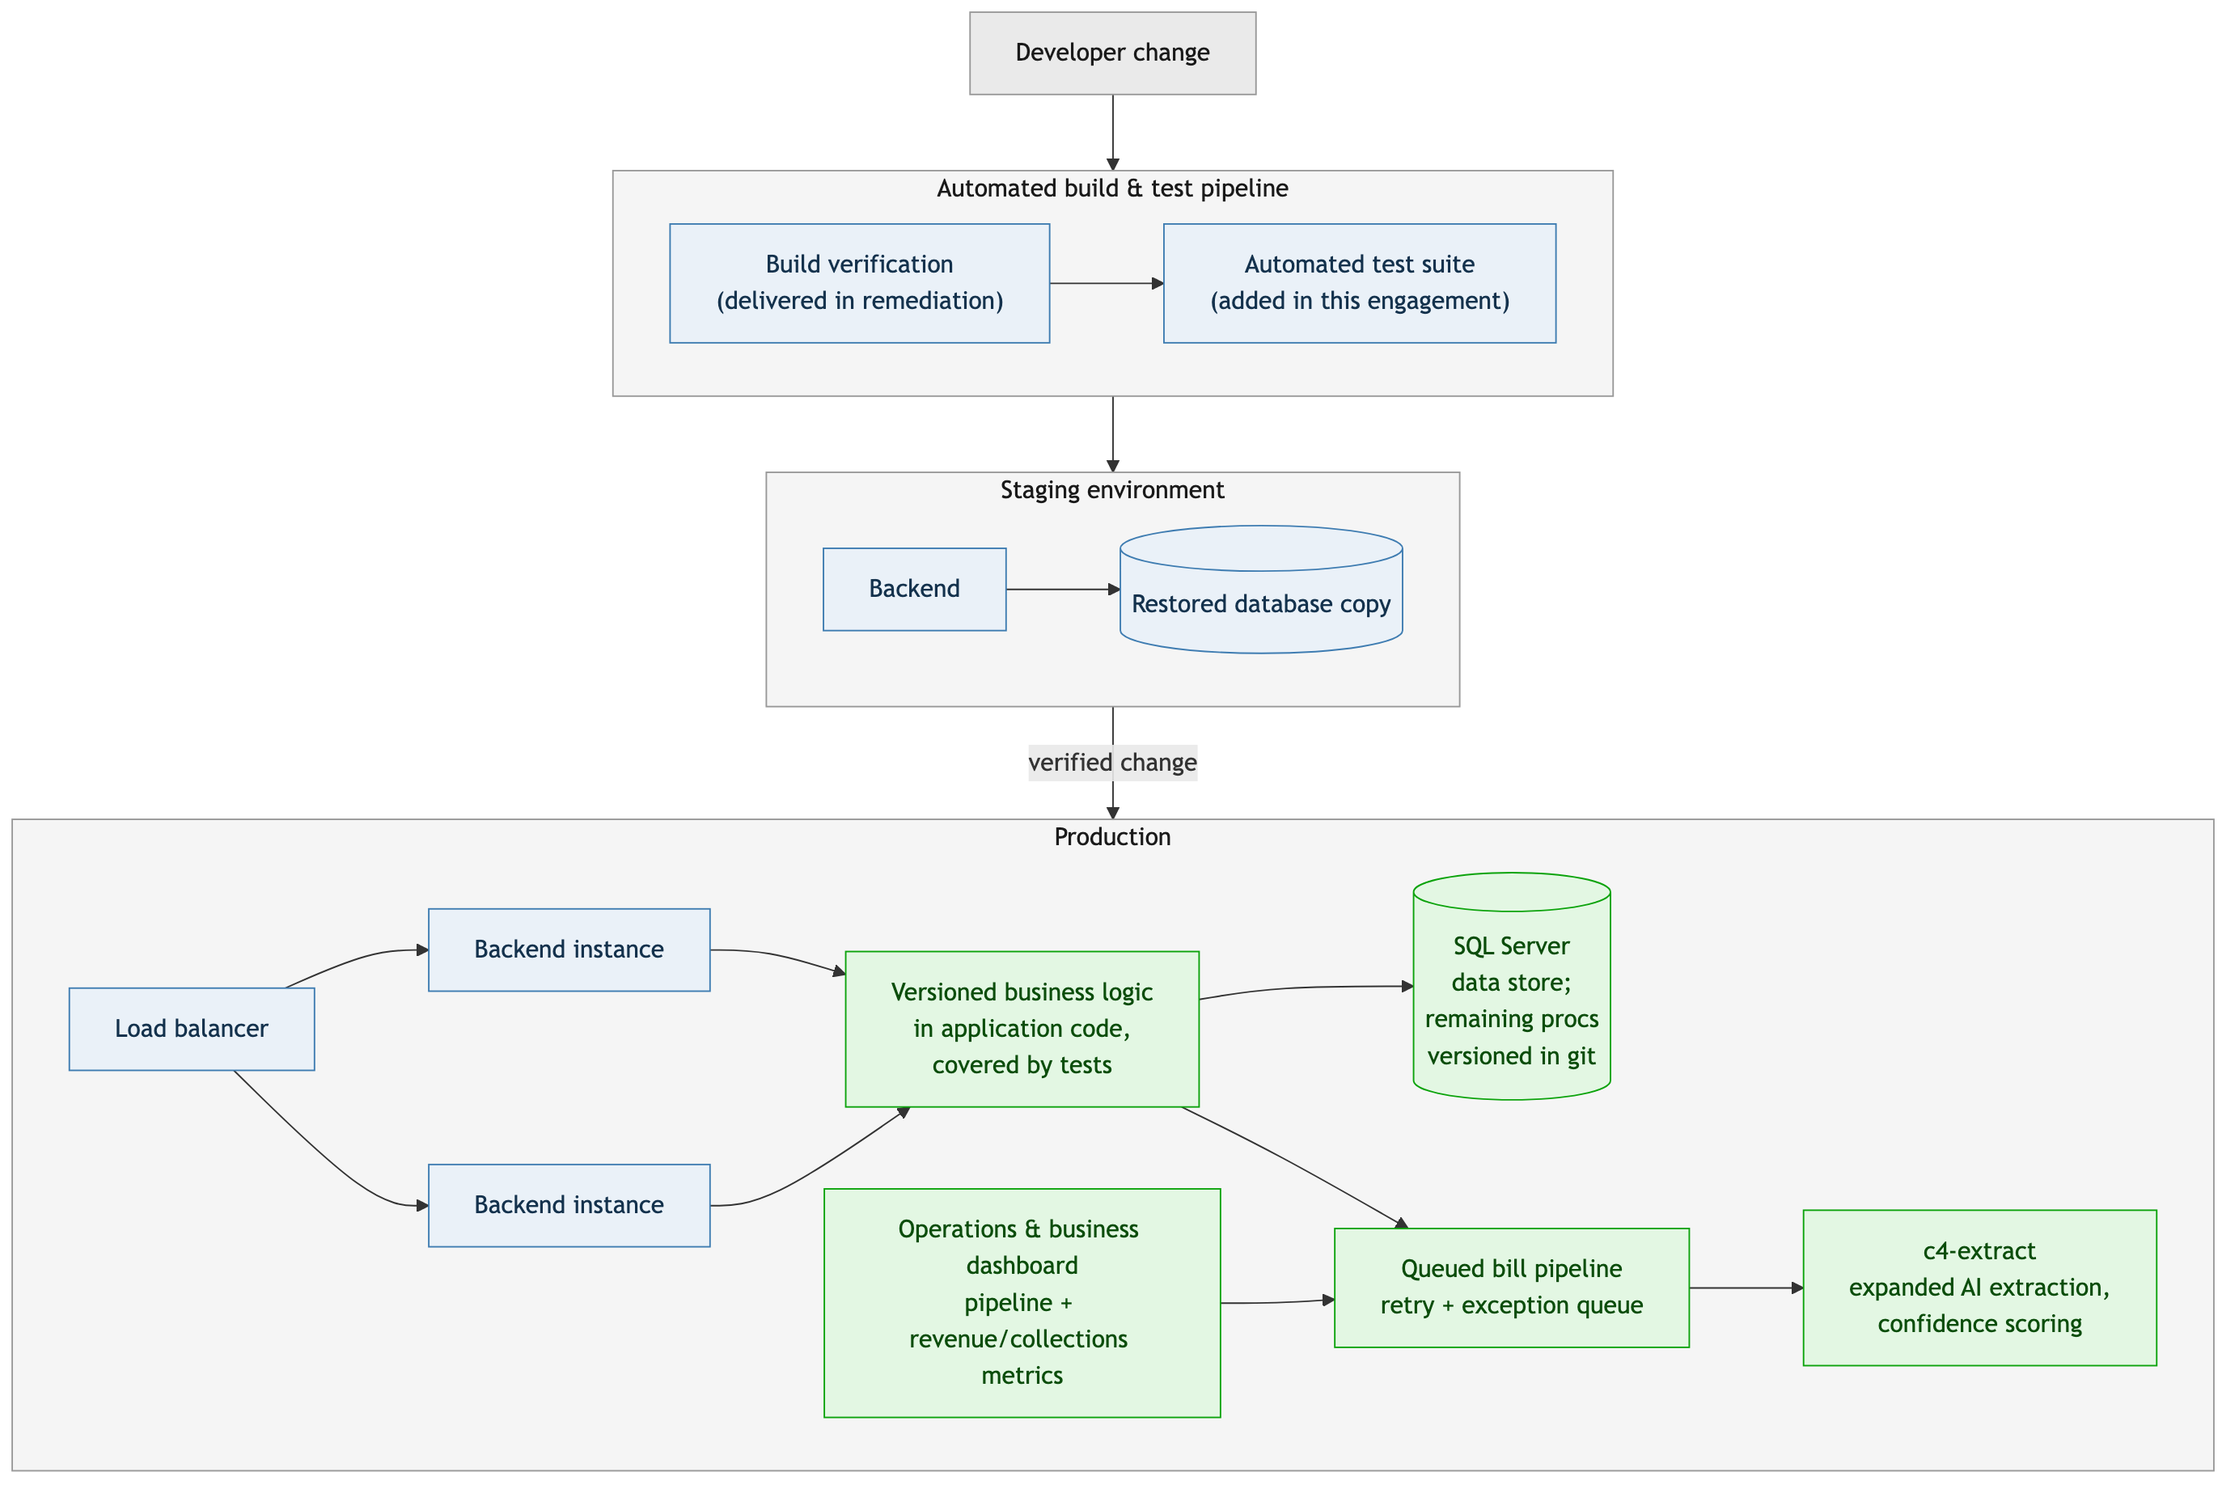
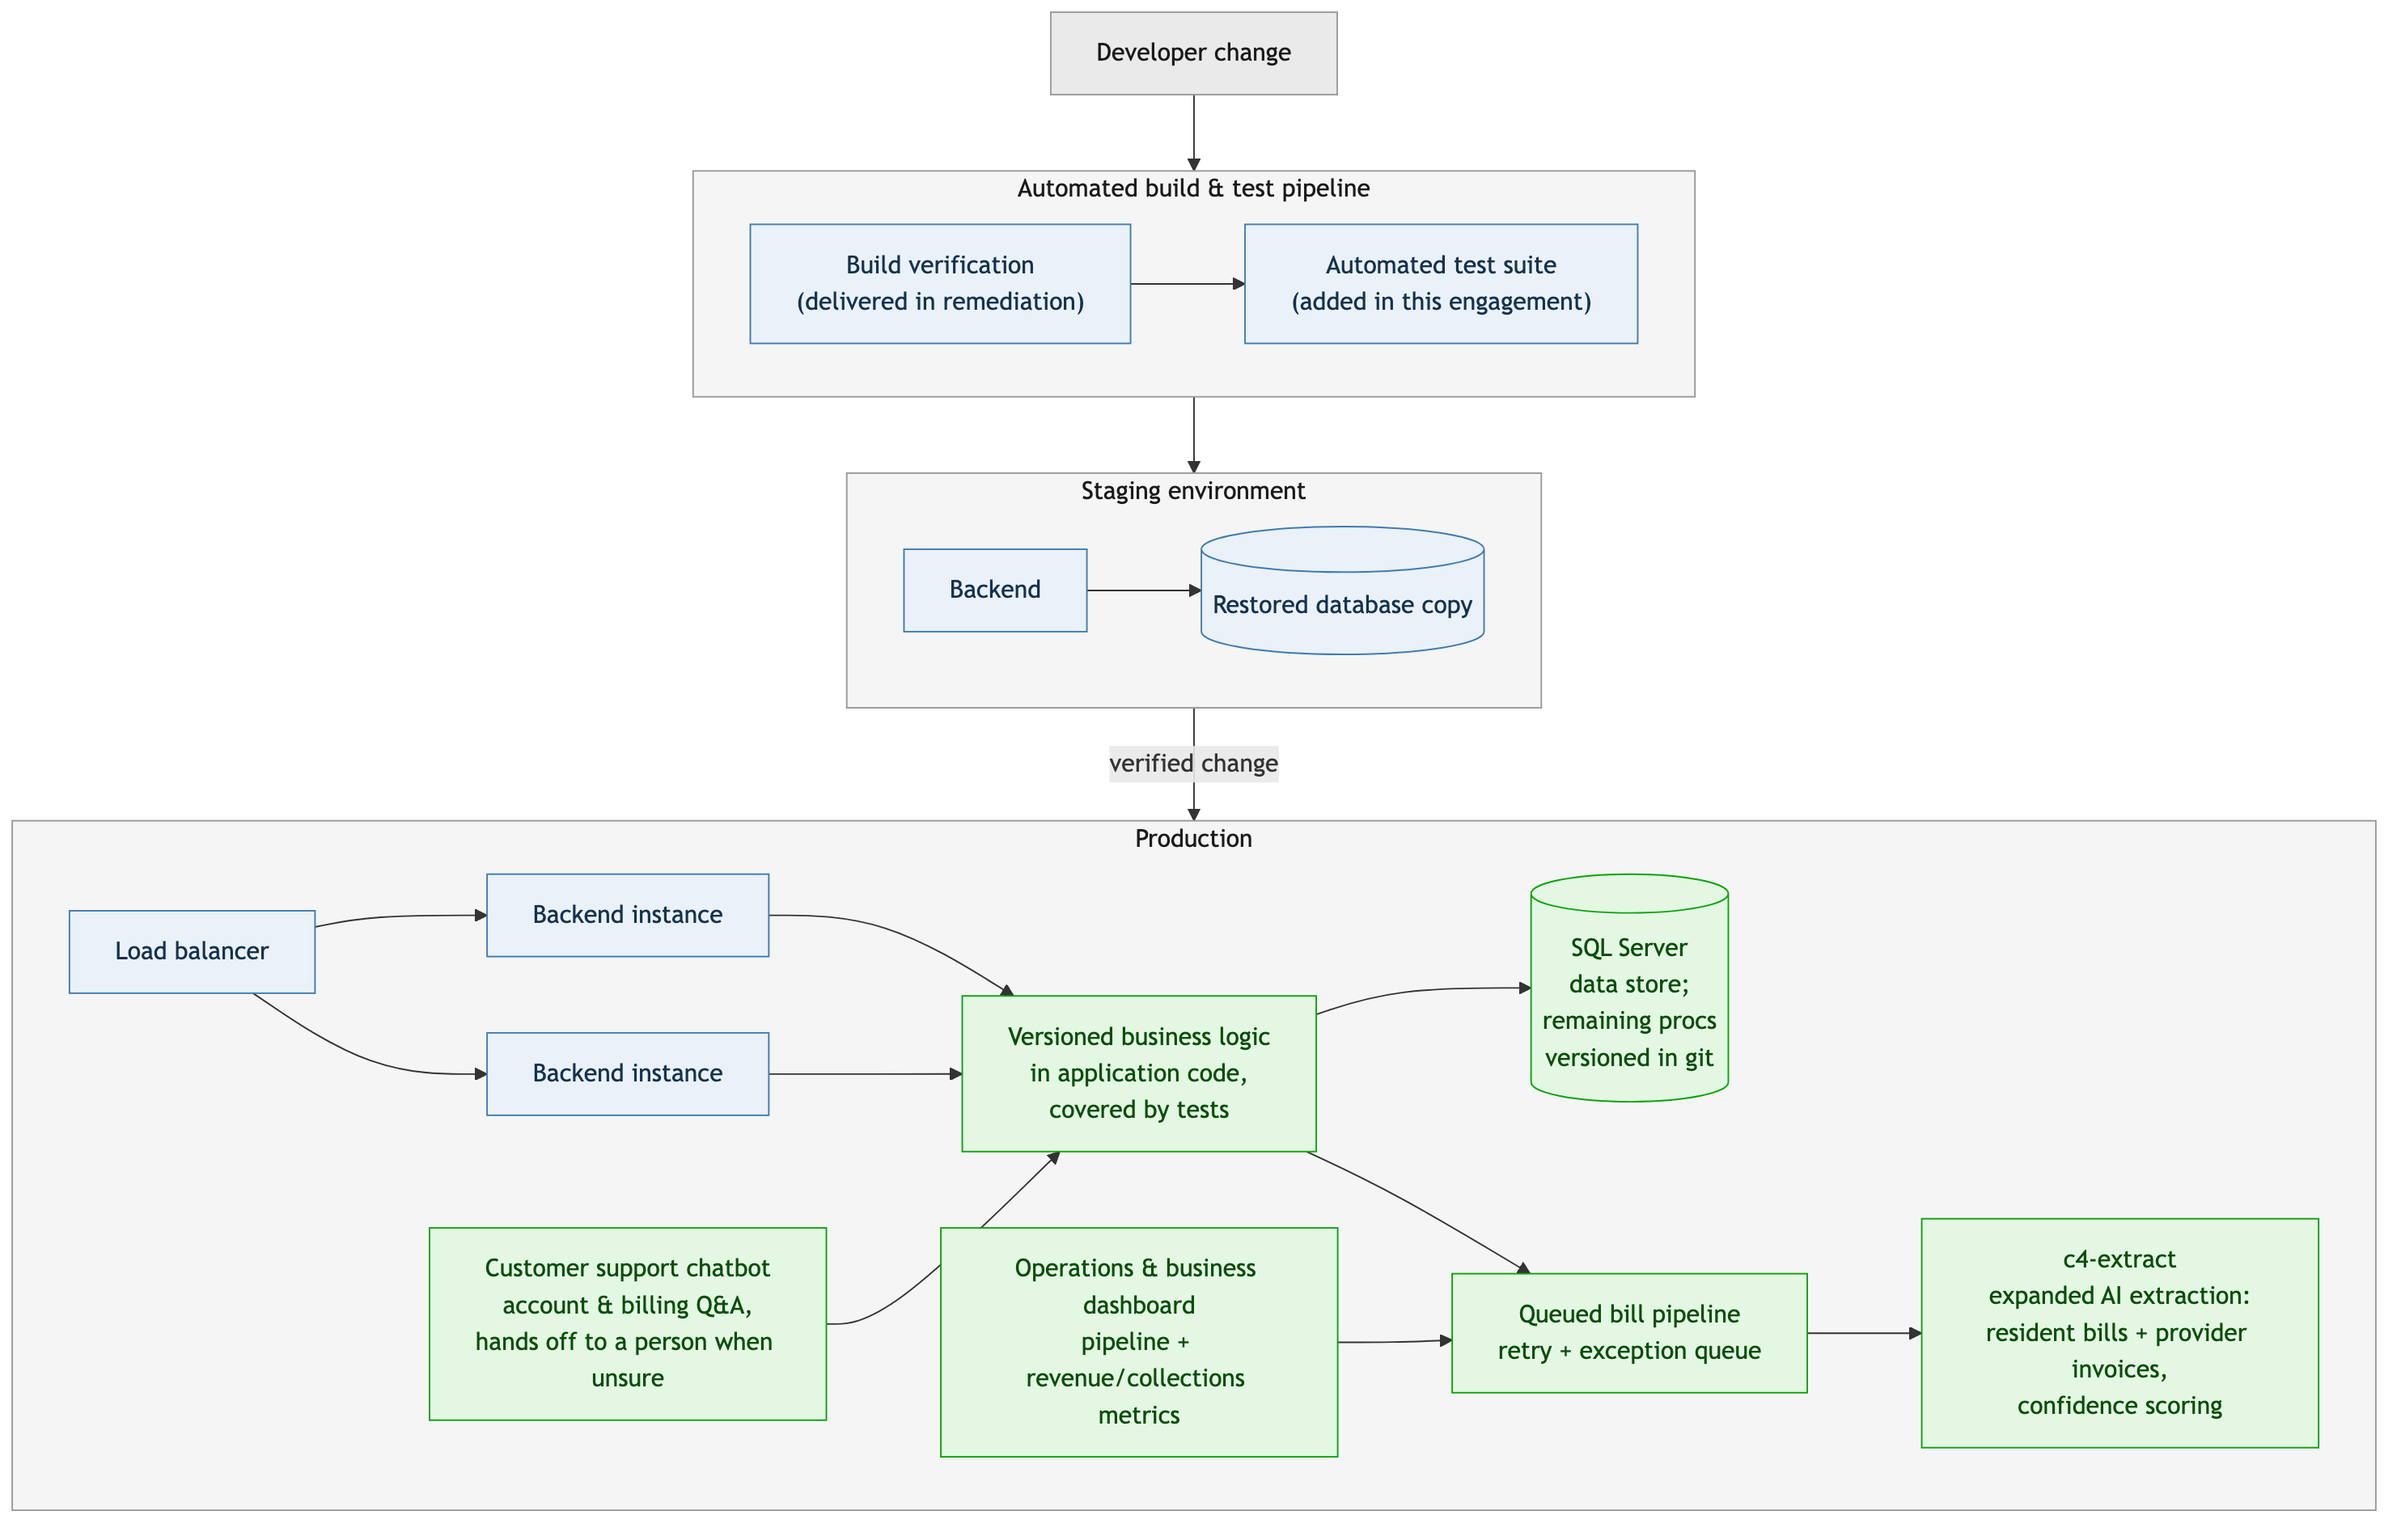
docs: add flexibility value prop, update diagrams for chatbot + provider invoices
Executive summary: added a new bolded paragraph, "We are building for
flexibility," stating the infrastructure/team decoupling as its own
value prop, matching the pattern of the other two paragraphs in that
section.

Diagrams: the target-state architecture diagram didn't reflect two
things already committed in the roadmap table: the customer-facing
support chatbot (item 16) and provider-invoice extraction (item 12).
Added a new chatbot node (querying the versioned business logic,
styled in the same "resolved" green as the other new-capability
nodes) and updated the c4-extract node's label to name both resident
bills and provider invoices. Re-rendered all three PNGs to confirm;
the current-state and Gantt renders came out byte-identical to before
since their content hadn't changed, only target-state.png updated.

Also fixed a stray "an Senior Engineer" -> "a Senior Engineer" typo.

diff --git a/docs/projects/ubility/ongoing-partnership/ubility-partnership-proposal.md b/docs/projects/ubility/ongoing-partnership/ubility-partnership-proposal.md
@@ -18,6 +18,8 @@ Keystone is proposing a fixed-scope roadmap, six months at the outside, that tur
 
 **Pricing is to the outcome, not the hour**, so the incentive on both sides is the same: get it done well, and get it done fast. And unlike the alternative Ubility is weighing, **nothing here locks Ubility in**: the code and infrastructure stay in Ubility's own accounts throughout, so this platform stays just as easy to hand to another firm, or bring in-house, as it is to keep working with Keystone.
 
+**We are building for flexibility**: Ubility's infrastructure stays Ubility's own, in Ubility's own accounts, no matter who is doing the engineering. Where this runs and who maintains it are two separate decisions, and we intend to keep them that way.
+
 We are committed to a long-term partnership that is earned by the quality of the work, not by making it expensive to leave. At the end of six months, we will sit down together and decide what comes next, rather than assuming it by default.
 
 ---
@@ -143,8 +145,9 @@ graph TD
         SVC["Versioned business logic<br/>in application code,<br/>covered by tests"]
         DB2[("SQL Server<br/>data store;<br/>remaining procs<br/>versioned in git")]
         Q["Queued bill pipeline<br/>retry + exception queue"]
-        EX2["c4-extract<br/>expanded AI extraction,<br/>confidence scoring"]
+        EX2["c4-extract<br/>expanded AI extraction:<br/>resident bills + provider invoices,<br/>confidence scoring"]
         OPS["Operations & business dashboard<br/>pipeline + revenue/collections metrics"]
+        CHAT["Customer support chatbot<br/>account & billing Q&A,<br/>hands off to a person when unsure"]
 
         LB --> BE1
         LB --> BE2
@@ -154,6 +157,7 @@ graph TD
         SVC --> Q
         Q --> EX2
         OPS --> Q
+        CHAT --> SVC
     end
 
     style CI fill:#f5f5f5,stroke:#999999,color:#1a1a1a
@@ -172,6 +176,7 @@ graph TD
     style Q fill:#e3f7e3,stroke:#0ca30c,color:#0b4d0b
     style EX2 fill:#e3f7e3,stroke:#0ca30c,color:#0b4d0b
     style OPS fill:#e3f7e3,stroke:#0ca30c,color:#0b4d0b
+    style CHAT fill:#e3f7e3,stroke:#0ca30c,color:#0b4d0b
 ```
 
 One important clarification on scope: the horizontally scaled production topology above is delivered in this engagement as the enabling work (packaging the backend so it can run as multiple identical copies, externalizing its configuration, making session state independent of any one instance, and a costed cutover plan with a recommended target). The cutover itself is sequenced by that plan rather than assumed to finish inside the six months, because doing it correctly depends on what the assessment finds. Everything else in the target diagram is committed roadmap scope.
@@ -284,9 +289,9 @@ Two separate answers, because they are two separate things.
 
 The Keystone team working on this engagement has been through the full six-repository audit, the independent verification of the security review, and the architecture mapping.
 
-That team has built production systems where getting it wrong is not an option. Tanner was an individual contributor on Stripe's core payments infrastructure and a Principal Engineer at Microsoft. Alex was an individual contributor on the software that manages Amazon's satellite fleet, and has led individual projects there. That same discipline applied to a platform this size looks like a bill calculated correctly and a change that does not take the platform down.
+That team has built production systems where getting it wrong is not an option. Tanner was a Senior Engineer on Stripe's core payments infrastructure and a Principal Engineer at Microsoft. Alex was a Senior Engineer on the software that manages Amazon's satellite fleet, and has led individual projects there. That same discipline applied to a platform this size looks like a bill calculated correctly and a change that does not take the platform down.
 
-Keystone maintains a small network of equally experienced independent engineers who are brought in when a piece of work calls for surge capacity or specific expertise. Engagements stay founder-scoped: Tanner scopes the work and decides who is looped in.
+Keystone also maintains a small network of equally experienced independent engineers who are brought in when a piece of work calls for surge capacity or specific expertise. Engagements stay founder-scoped: Tanner scopes the work and decides who is looped in. While we don't anticipate the need to bring in more people for this roadmap, the option exists if a specific deliverable calls for it. The team is not a single person, and it is not a single point of failure.
 
 The practical point is coverage. A single-engineer arrangement, whether that engineer is a contractor or a full-time hire, reproduces the exact situation Ubility is recovering from now.
 
